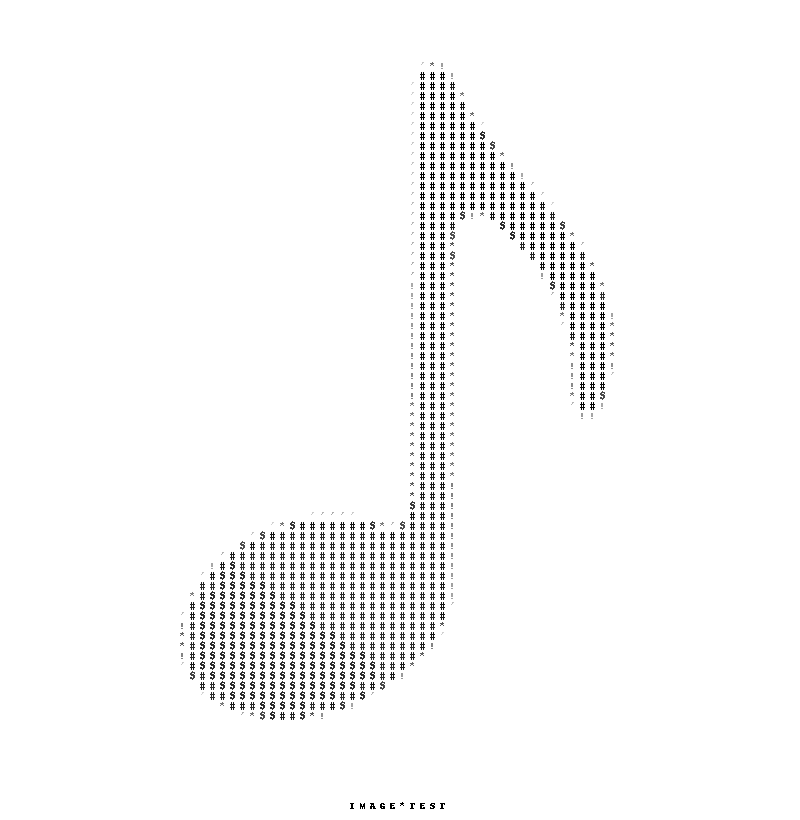
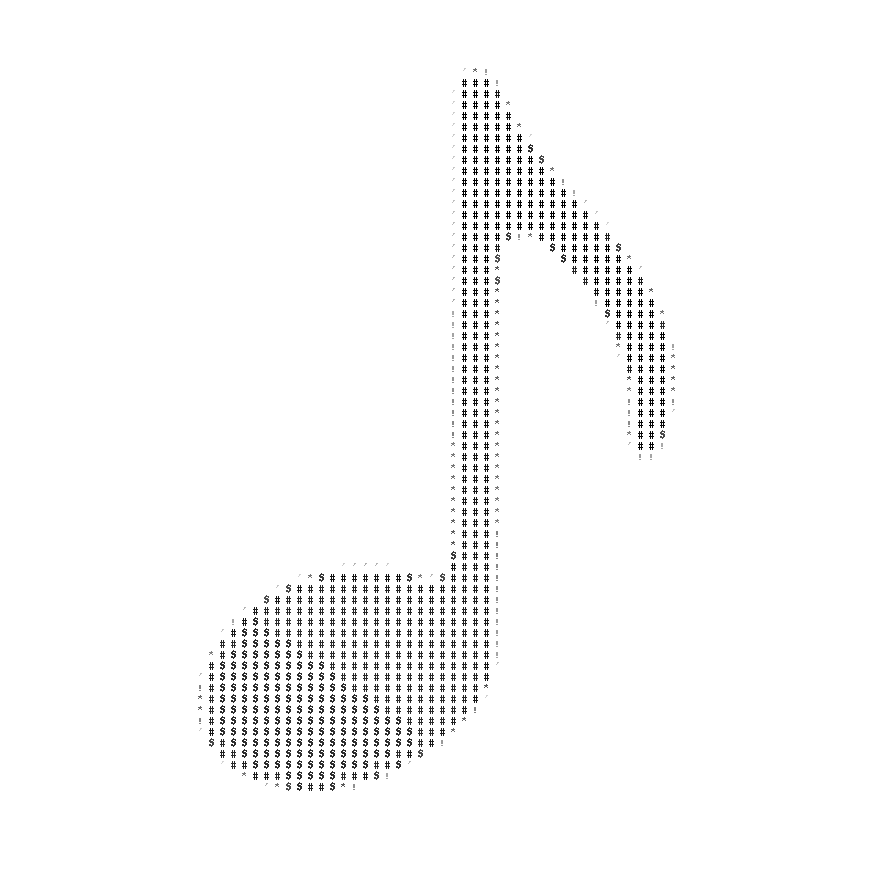
README - update usage about text()
im2a
- remove "add title"
- add support for custom fonts

Changed region(s): [[0.2188, 0.0915, 0.7812, 0.9146], [0.4375, 0.9756, 0.4688, 1.0]]

diff --git a/im2a/im2a.py b/im2a/im2a.py
@@ -5,7 +5,7 @@ from os import path
 
 __author__ = "Jason Rebuck"
 __copyright__ = "2011/2012"
-__version__ = "v.18"
+__version__ = "v.20"
 
 ##########
 # USAGE ##
@@ -14,10 +14,8 @@ __version__ = "v.18"
 # im2a = Image2Ascii(<image name>, <block size>, <character map list>) <!--inits and sets values
 # im2a.setMap(<character map list>) <!-- (OPTIONAL) replaces character map
 #
-# im2a.addTitle("My Title Here") <!--add a text title to the bottom of the image [EXPERIMENTAL]
-#
 # im2a.ascii() <!-- writes text to file
-# im2a.text(<text spacing>) <!-- writes text and color list to file
+# im2a.text(<ttf font name>, <font size>) <!-- writes text and color list to file
 # im2a.blocks(<blocksize>) <!-- writes color list as blocks in an image file
 # im2a.ellipse(<blocksize>) <!-- writes color list as ellipses in an image file
 
@@ -29,8 +27,6 @@ class Image2Ascii:
         self.charMap = charMap #your color mapping. [dark -> light]
         self.outputText = [] #create empty output list
         self.outputColor = [] #create empty output list
-        self.titleText = []
-        self.titleColor = []
         self.hasRun = False #flag to tell if run function has been called
         try:
             self.image = Image.open(self.imageName).convert("L") #open image and convert to b&w
@@ -88,27 +84,6 @@ class Image2Ascii:
         if self.outputText and self.outputColor: #mark flag as run
             self.hasRun = True
 
-    def addTitle(self, text, spacer="*", color=0):
-        self.checkRun()
-        if self.outputText and (len(text) <= len(self.outputText[-1])): #make sure text will fit
-            halfLen = round(len(self.outputText[-1])/2.0) #get half of row length
-            halfText = round(len(text)/2.0) #get half of text length
-            text = str(text).replace(" ", spacer).upper() #format text
-            textRow = [ ' ' for i in self.outputText[0] ] #make blank text row
-            extraRow = textRow[0:] #extra copy of text row
-            colorRow = [ 255 for i in self.outputText[0] ] #make a white color row
-            counter = 0 # start with 0.
-            for i in range(int(halfLen-halfText), int(halfLen-halfText) + len(text)):
-                textRow[i] = text[counter] #replace text char of that spot in row
-                colorRow[i] = 0 #replace text char of that spot in row
-                counter += 1 #inc counter
-            self.titleText.append(textRow) #add text row
-            self.titleText.append(extraRow) #add text row
-            self.titleColor.append(colorRow) #add color row
-            self.titleColor.append(colorRow) #add color row
-        else:
-            print "Oops, Title is Too Long"
-
     def checkRun(self):
         if not self.hasRun:
             self.run()
@@ -120,10 +95,10 @@ class Image2Ascii:
         im.loop()
         im.save()
 
-    def text(self, space=10):
+    def text(self, font='default', size=11):
         """Output to Image of Colored Text"""
         self.checkRun()
-        im = OutputImageText(self, space)
+        im = OutputImageText(self, font, size)
         im.loop()
         im.save()
 
@@ -157,7 +132,6 @@ class OutputImageGeneric:
     def setupImage(self):
         self.outImage = Image.new("L", (self.width, self.height), 255) #make output image
         self.draw = ImageDraw.Draw(self.outImage) #make draw object
-        self.font = ImageFont.load_default() #setup font object
 
     def setSize(self):
         self.height= len(self.outputColor) * self.blockSize #cal height
@@ -181,25 +155,50 @@ class OutputImageGeneric:
             self.draw.rectangle((x, y, x+self.blockSize, y+self.blockSize), self.outputColor[row][col] ) #draw rectangle
         except:
             print "Unable To Write Block Image Line! ({0},{1})".format(x,y)
+            raise
 
     def save(self):
         self.outImage.save(self.fileName) #save to file
 
 class OutputImageText(OutputImageGeneric):
     """Writes Output as Colored Text"""
+
+    def __init__(self, imObject, font='default', size=11):
+        self.setupLists(imObject) #save lists
+        self.setFileName(imObject.imageName) #set filename
+        self.blockSize = imObject.blockSize #set blocksize
+        self.setFont(font, size)
+        self.setSize() #set height and width
+        self.setupImage() #setup output file and other objects
+
     def setFileName(self,fileName):
 	root, ext = path.splitext(fileName) #get root name
 	self.fileName = "{0}_text.png".format(root) # make file name
 
     def setupLists(self, imObject):
-        self.outputColor = imObject.outputColor + imObject.titleColor #set object colorlist
-        self.outputText = imObject.outputText + imObject.titleText #set object textlist
+        self.outputColor = imObject.outputColor #set object colorlist
+        self.outputText = imObject.outputText #set object textlist
+        self.font = ImageFont.load_default() #set up default font
+
+    def setFont(self, font, size):
+        if not font in ('default', '', ' '): #if font is not missing or font is not set to default
+            try:
+                self.font = ImageFont.truetype(font, size) #load ttf object
+                fontSize= self.font.getsize(self.outputText[0][0]) #make height of text needed
+                self.blockSize = fontSize[1] #set font height as blockSize
+            except:
+                print "Error. Something Wrong With Setting Font!"
+                raise
+        else:
+            self.blockSize = 11 #else load PIL default with a space of 11
+            self.font = ImageFont.load_default()
 
     def writeLn(self, x, y, row, col):
         try:
             self.draw.text((x, y), self.outputText[row][col], font=self.font, fill=self.outputColor[row][col] ) #write colored text
         except OSError:
             print "Unable To Write Image Text Line! ({0},{1})".format(x,y)
+            raise
 
 class OutputImageEllipse(OutputImageGeneric):
     """Writes Output as Colored Ellipses"""
@@ -212,16 +211,25 @@ class OutputImageEllipse(OutputImageGeneric):
             self.draw.ellipse((x, y, x+self.blockSize, y+self.blockSize), self.outputColor[row][col] ) #write ellipse
         except:
             print "Unable To Write Ellipse Line! ({0},{1})".format(x,y)
+            raise
 
 class OutputAsciiText(OutputImageGeneric):
     """Writes Output to Ascii Text File"""
+
+    def __init__(self, imObject, blockSize=''):
+        self.setupLists(imObject) #save lists
+        self.setFileName(imObject.imageName) #set filename
+        self.blockSize = blockSize or imObject.blockSize #set blocksize
+        self.setSize() #set height and width
+        self.setupImage() #setup output file and other objects
+
     def setFileName(self, fileName):
         root, ext = path.splitext(fileName) #take off extention
         self.fileName = "{0}_ascii.txt".format(root) #add '.txt' extention
 
     def setupLists(self, imObject):
-        self.outputColor = imObject.outputColor + imObject.titleColor #set object colorlist
-        self.outputText = imObject.outputText + imObject.titleText #set object textlist
+        self.outputColor = imObject.outputColor #set object colorlist
+        self.outputText = imObject.outputText #set object textlist
 
     def setupImage(self):
         pass #skip setup function [other objects not needed]
@@ -243,11 +251,9 @@ class OutputAsciiText(OutputImageGeneric):
 
 if __name__ == "__main__":
     im = Image2Ascii('examples/note.jpg', 5) #load image
-    #im.setMap(range(10)) #sets custom character map
-    im.addTitle("Image Test") #adds title to ascii and text image
     im.ascii() #output to text file
     im.blocks() #output to block image
-    im.text()
+    im.text('default', 11) #output to an image of colored text
     im.ellipse()
 
 
